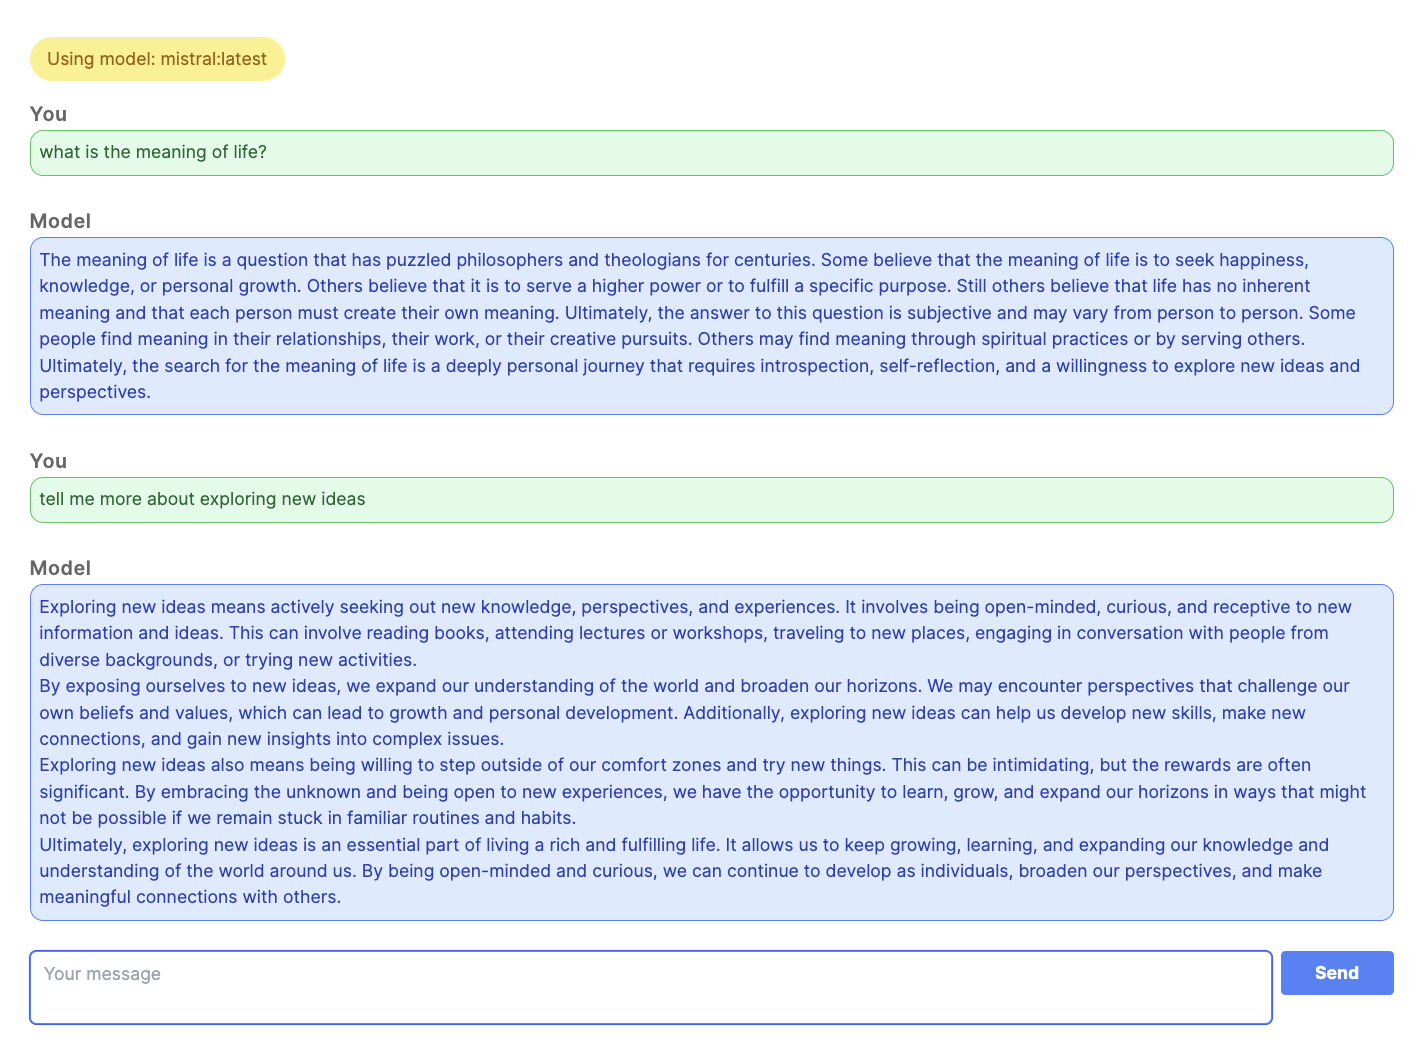
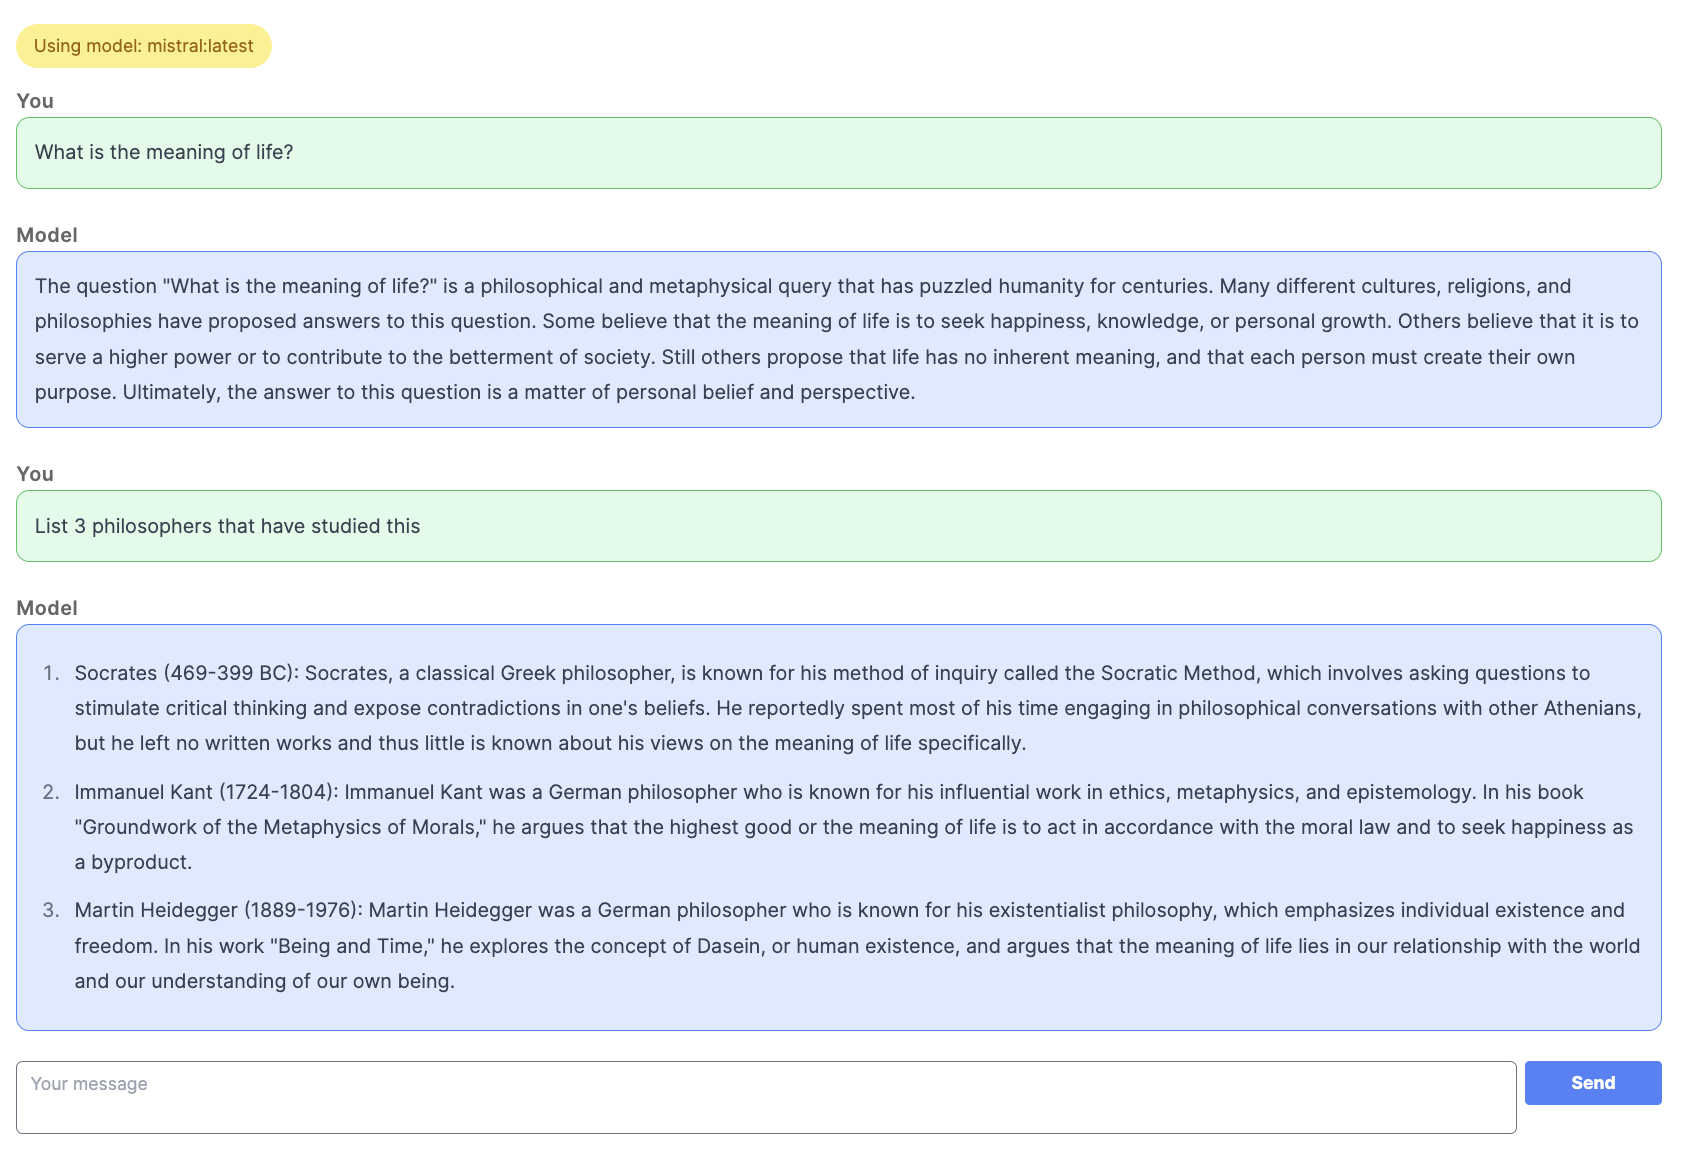
done with markdown styles, update screenshot

Changed region(s): [[0.0, 0.5287, 0.9936, 0.9953], [0.0, 0.0, 0.9936, 0.4976]]

diff --git a/README.md b/README.md
@@ -15,7 +15,6 @@
     - [Markdown Styling](#markdown-styling)
   - [Project Setup](#project-setup)
   - [Future Features](#future-features)
-    - [Other](#other)
     - [Temperature and other options](#temperature-and-other-options)
     - [Auto scroll as conversation exceeds length of viewport](#auto-scroll-as-conversation-exceeds-length-of-viewport)
     - [Deal with unescaped html warning from marked/highlight](#deal-with-unescaped-html-warning-from-markedhighlight)
@@ -532,9 +531,6 @@ Type in your message/question in the text area and click Send.
 
 ## Future Features
 
-WIP: Markdown styles
-
-### Other
 * Allow user to select from list of available models (how to handle if prompt format is different for each?)
 * Save chat history
 * Ability to start a new chat
